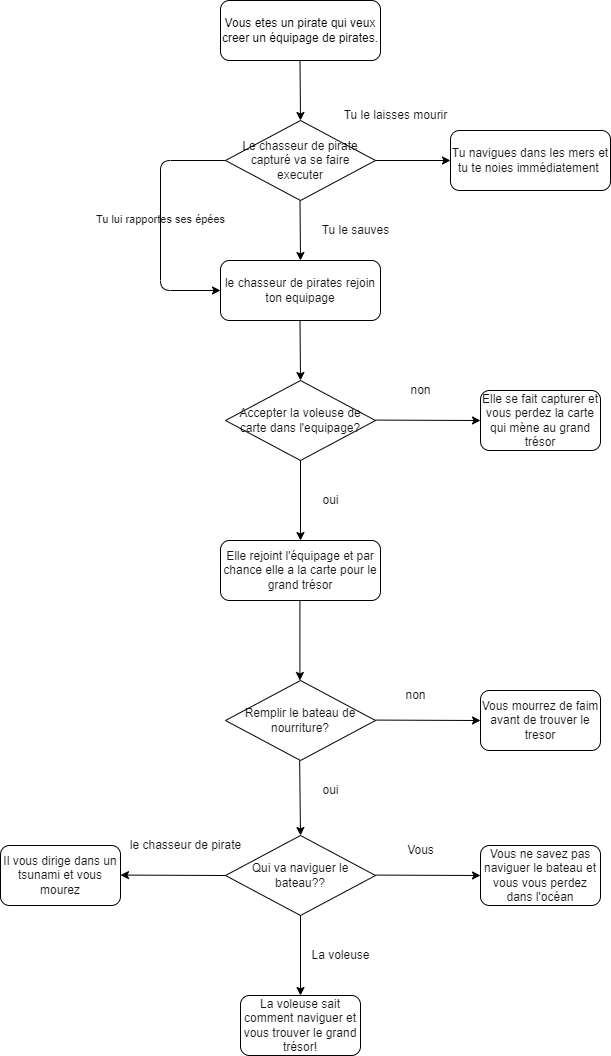
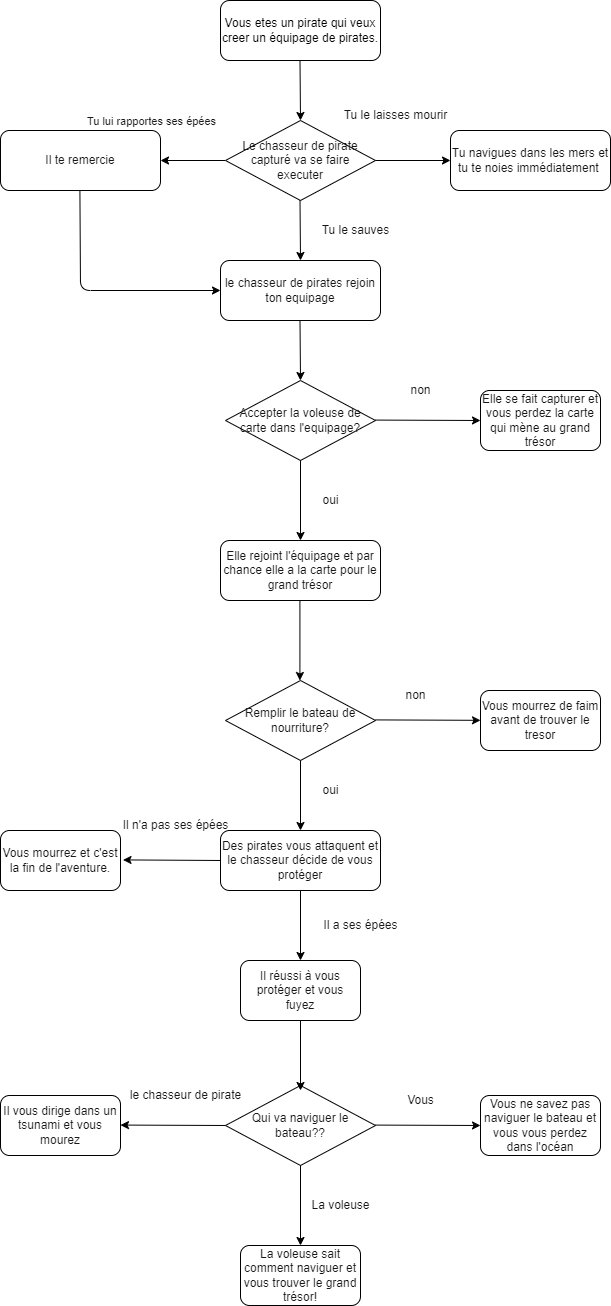
changement

diff --git a/assets/js/script.js b/assets/js/script.js
@@ -2,39 +2,127 @@ let chapters = {
     debut: {
         titre: "Le Choix Fatidique",
         description: "Vous, un pirate audacieux, étiez déterminé à former l'équipage le plus redoutable de tous les temps. Cependant, le destin avait un plan bien différent pour vous ce jour-là. Un chasseur de pirates capturé, un homme robuste aux cheveux en bataille et aux yeux perçants, était traîné devant vous. Ses poignets étaient liés, et il fixait l'horizon, résigné à son sort. Le bruit de la foule enragée monta en crescendo, réclamant la mort du chasseur. Vous aviez trois options cruciales à considérer : laisser cet homme mourir, le sauver et en faire un membre de votre équipage, ou lui rendre ses épées pour lui donner une chance de se battre pour sa vie.",
-        image: "./img/imgchap1.jpg",
+        image: "./assets/img/imgchap1.jpg",
         boutons: [
             {titre: "Le laissez mourir", destination: "noyade"},
-            {titre: "Tu le sauves", destination: "Rejoin"},
-            {titre: "Tu lui rends ses épées", destination: "Rejoin"}
+            {titre: "Tu le sauves", destination: "alliance"},
+            {titre: "Tu lui rends ses épées", destination: "remercie"}
+        ]
+    },
+    noyade: {
+        titre: "L'Abondance",
+        description: "Tu le laisses mourir, tu navigues dans les mers et tu te noies immédiatement.",
+        image: "./img/naviguerimg.webp",
+        boutons: [
+            {titre: "Recommencer", destination: "debut"}
+        ]
+    },
+    remercie: {
+        titre: "Remercie",
+        description: "Il te remercie.",
+        image: "./img/naviguerimg.webp",
+        boutons: [
+            {titre: "Suite", destination: "alliance"}
         ]
     },
     alliance: {
         titre: "L'Alliance Inattendue",
-        description: "Contre toute attente, vous avez choisi de rendre les épées au chasseur de pirates. Il se leva, essuya la poussière de ses vêtements, et avec un regard de gratitude mêlé de méfiance, il prêta serment de fidélité à votre équipage. Alors que vous prépariez votre fuite de l'île, une silhouette agile se glissa dans l'ombre. Une voleuse de cartes vous proposa de rejoindre votre équipage. Ses talents pourraient s'avérer précieux, mais sa réputation était celle d'une opportuniste sans scrupules. Acceptez-vous son offre ?",
+        description: "Contre toute attente, vous avez choisi de sauver le chasseur de pirates. Il se leva, essuya la poussière de ses vêtements, et avec un regard de gratitude mêlé de méfiance, il prêta serment de fidélité à votre équipage. Alors que vous prépariez votre fuite de l'île, une silhouette agile se glissa dans l'ombre. Une voleuse de cartes vous proposa de rejoindre votre équipage. Ses talents pourraient s'avérer précieux, mais sa réputation était celle d'une opportuniste sans scrupules. Acceptez-vous son offre?",
         image: "./img/allianceimg.png",
         boutons: [
-            {titre: "Oui", destination: "Carte"},
-            {titre: "Non", destination: "Perte"}
+            {titre: "Oui", destination: "dilemme"},
+            {titre: "Non", destination: "perte"}
+        ]
+    },
+    perte: {
+        titre: "Une Grande Perte",
+        description: "Elle se fait capturer, et vous perdez la carte qu'elle possédait menant au grand trésor.",
+        image: "./img/naviguerimg.webp",
+        boutons: [
+            {titre: "Recommencer", destination: "debut"}
         ]
     },
     dilemme: {
         titre: "Le Dilemme de la Nourriture",
-        description: "La voleuse de carte intégra rapidement l'équipage, apportant avec elle sa connaissance des mers et son talent pour dérober les trésors cachés. Votre équipage s'apprêtait à appareiller, mais une question épineuse se posa : deviez-vous remplir le bateau de provisions ou risquer de naviguer à vide ?",
+        description: "La voleuse de carte intégra rapidement l'équipage, apportant avec elle sa connaissance des mers et son talent pour dérober les trésors cachés. Votre équipage s'apprêtait à appareiller, mais une question épineuse se posa : deviez-vous remplir le bateau de provisions ou risquer de naviguer à vide?",
         image: "./img/dilemmeimg.jpg",
         boutons: [
-            {titre: "Oui", destination: "Famine"},
-            {titre: "Non", destination: "Provisions"}
+            {titre: "Oui", destination: "assault"},
+            {titre: "Non", destination: "famine"}
+        ]
+    },
+    assault: {
+        titre: "Attaque de Pirates!",
+        description: "Des pirates vous attaquent et le chasseur décide de vous protéger.",
+        image: "./img/dilemmeimg.jpg",
+        boutons: [
+            {titre: "Suite", destination: "defaite"}
+        ]
+    },
+    triomphe: {
+        titre: "Victoire Contre les Pirates!",
+        description: "Le chasseur de pirates réussit à vous protéger grâce à ses épées, et vous fuyez.",
+        image: "./img/dilemmeimg.jpg",
+        boutons: [
+            {titre: "Suite", destination: "naviguer"}
+        ]
+    },
+    defaite: {
+        titre: "Defaite Contre les Pirates!",
+        description: "Vous mourrez et c'est la fin de l'aventure.",
+        image: "./img/dilemmeimg.jpg",
+        boutons: [
+            {titre: "Recommencer", destination: "debut"}
+        ]
+    },
+    famine: {
+        titre: "La Famine",
+        description: "Vous mourrez tous de faim avant de trouver le grand trésor.",
+        image: "./img/naviguerimg.webp",
+        boutons: [
+            {titre: "Recommencer", destination: "debut"}
         ]
     },
     naviguer: {
-        titre: "Le Dilemme de la Nourriture",
+        titre: "La Naviguation",
         description: "Les cales du navire étaient remplies de provisions, prêtes à affronter les tempêtes et les longues traversées. Alors que vous vous apprêtiez à larguer les amarres, une autre décision cruciale devait être prise. Qui va naviguer le bateau ?",
         image: "./img/naviguerimg.webp",
         boutons: [
-            {titre: "Vous", destination: "Perdu"},
-            {titre: "Chasseur de pirates", destination: "Tsunami"},
-            {titre: "La voleuse", destination: "Tresor"}
+            {titre: "Vous", destination: "capitaine"},
+            {titre: "Chasseur de pirates", destination: "chasseur"},
+            {titre: "La voleuse", destination: "voleuse"}
+        ]
+    },
+    capitaine: {
+        titre: "Naviguateur: Vous!",
+        description: "Vous ne savez pas naviguer le bateau et vous vous perdez dans l'océan.",
+        image: "./img/naviguerimg.webp",
+        boutons: [
+            {titre: "Recommencer", destination: "debut"}
+        ]
+    },
+    chasseur: {
+        titre: "Naviguateur: Le Chasseur de pirates!",
+        description: "Il vous dirige dans un tsunami et vous mourez.",
+        image: "./img/naviguerimg.webp",
+        boutons: [
+            {titre: "Recommencer", destination: "debut"}
+        ]
+    },
+    voleuse: {
+        titre: "Naviguatrice: La Voleuse!",
+        description: "La voleuse sait comment naviguer et vous trouvez le grand trésor!",
+        image: "./img/naviguerimg.webp",
+        boutons: [
+            {titre: "Victoire", destination: "victoire"}
+        ]
+    },
+    victoire: {
+        titre: "Victoire!",
+        description: "Félicitation! Vous avez trouver le grand trésor!",
+        image: "./img/naviguerimg.webp",
+        boutons: [
+            {titre: "Retour", destination: "debut"}
         ]
     }
 };//Faut faire pour les autres chapitres aussi
@@ -43,32 +131,46 @@ let twist = false;
 
 function goToChapter(chapitre) {
     
-    const objet = chapters[chapitre];
+    let objet = chapters[chapitre];
 
-    if (objet) {
-        console.log("Titre du chapitre:", objet.titre);
-        console.log("Chapitre:", objet.description);
-        console.log("Boutons:", objet.boutons.map(bouton => bouton.destination).join(', '));
-    } else {
-        console.log("Le chapitre spécifié n'existe pas.");
-    }
+    if (objet != undefined) {
+        let titreChap = document.getElementById("titre");
+        let paragrapheChap = document.getElementById("para");
+        let imgChap = document.getElementById("logo");
 
-    const btn = document.querySelector(".bouton");
+        titreChap.textContent = objet.titre;
+        paragrapheChap.textContent = objet.description;
+        imgChap.src =objet.image;
 
-    while (btn.firstChild) {
-        btn.removeChild(btn.firstChild);
-    }
+        let btn = document.querySelector(".bouton");
 
-    for (let i = 0; i < objet.boutons.length; i++) {
-        const newBtn = document.createElement("button");
-        newBtn.textContent = objet.boutons[i].titre;
+        while (btn.firstChild) {
+            btn.removeChild(btn.firstChild);
+        }
 
-        newBtn.addEventListener("click", () => {
-            goToChapter(objet.boutons[i].destination);
-        });
+        if (objet.boutons && objet.boutons.length > 0) {
+            for (let i = 0; i < objet.boutons.length; i++) {
 
-        btn.appendChild(newBtn);
+                let newBtn = document.createElement("button");
+                newBtn.setAttribute("id", "btn");
+                newBtn.textContent = objet.boutons[i].titre;
+                
+                newBtn.addEventListener("click", () => {
+                    let chapitrePresent = objet.boutons[i].destination;
+                    goToChapter(chapitrePresent);
+                });
+        
+                btn.appendChild(newBtn);
+            }
+        }
+        if (chapitre === "remercie") {
+            twist = true;
+        }
+        if (chapitre === "assault") {
+            if (twist === true) {
+                objet.boutons[0].destination = "triomphe";
+            }
+        }
     }
 }
-
 goToChapter('debut');

diff --git a/index.html b/index.html
@@ -8,22 +8,22 @@
 </head>
 <body>
     <div class="jeu">
-        <p class="logo">LE TRESOR</p>
+        <p class="gTitre">LE TRESOR</p>
 
-        <h1 class="titre">Qui aperiam</h1>
+        <h1 id="titre" class="titre">Qui aperiam</h1>
 
-        <p class="para">
+        <p id="para" class="para">
             Lorem ipsum dolor sit amet. Ut sapiente autem et eveniet nesciunt ut
             libero quisquam et ducimus magnam. Aut optio ipsam hic omnis corporis
             ut facere amet ut tempora facere aut alias Quis in debitis ipsam id dolore rerum. 
         </p>
 
-        <img src="./assets/img/bateau.webp">
+        <img id="logo" src="./assets/img/bateau.webp">
 
         <div class="bouton">
-            <button class="btn 1">Et distinctio</button>
-            <button class="btn 2">At obcaecati</button>
-            <button class="btn 3">Est nobis</button>
+            <button id="btn">Et distinctio</button>
+            <button id="btn">At obcaecati</button>
+            <button id="btn">Est nobis</button>
         </div>
     </div>
     <script src="./assets/js/script.js"></script>

diff --git a/assets/css/styles.css b/assets/css/styles.css
@@ -25,7 +25,7 @@ body {
     box-shadow: 0px 0px 20px 20px rgba(255, 255, 255, 0.1);
 }
 
-.logo {
+.gTitre {
     font-family: "one piece";
     font-weight: bold;
     font-size: 100px;
@@ -66,7 +66,7 @@ img {
     align-items: center;
 }
 
-.btn{
+#btn{
     width: 150px;
     height: 50px;
     font-size: larger;
@@ -74,7 +74,7 @@ img {
     color: #bad6db;
 }
 
-.btn:hover {
+#btn:hover {
     background-color: #333333;
     color: #ffffff;
 }
